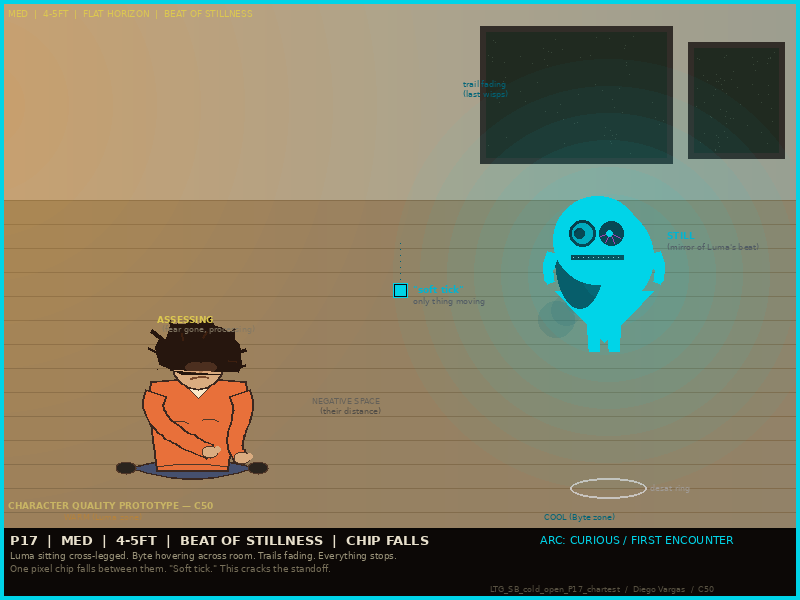
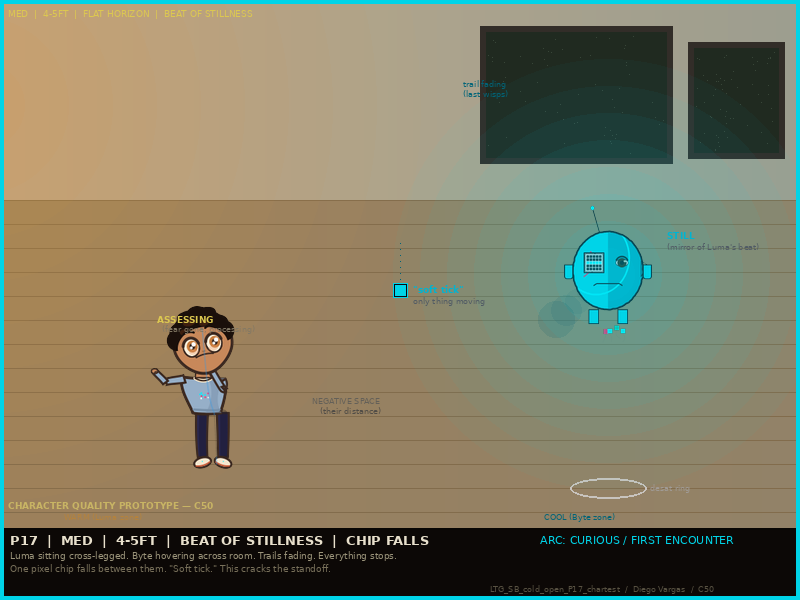
Replace inline character drawing in P21 with canonical char_*.py imports, fix P17 return value
P21: Removed ~100 lines of inline Byte (ellipse/polygon body, arms, head,
cracked eye, rim light) and Luma (polygon body, hair, face, eyes, brows,
mouth) drawing. Replaced with imports from LTG_TOOL_char_byte and
LTG_TOOL_char_luma canonical renderers using the standard _char_to_pil +
_composite_char pattern. Scene lighting tint applied via renderer kwargs.

P17_chartest: Fixed draw_byte_hovering() to return (face_cy, face_r,
body_cx, body_w) tuple for annotation placement — was returning None.

All 6 panels (P17_chartest, P18, P21, P22, P23, P24) tested and
regenerated successfully. No inline character drawing remains.

Changed region(s): [[0.125, 0.51, 0.3438, 0.81], [0.6562, 0.33, 0.8438, 0.6]]

diff --git a/output/tools/LTG_TOOL_sb_cold_open_P21.py b/output/tools/LTG_TOOL_sb_cold_open_P21.py
@@ -45,6 +45,8 @@ except ImportError:
 from PIL import Image, ImageDraw, ImageFont
 import math, random, os
 import sys
+from LTG_TOOL_char_luma import draw_luma as _draw_luma_canonical
+from LTG_TOOL_char_byte import draw_byte as _draw_byte_canonical
 from LTG_TOOL_char_glitch import draw_glitch
 from LTG_TOOL_cairo_primitives import to_pil_rgba
 sys.path.insert(0, os.path.dirname(os.path.abspath(__file__)))
@@ -264,53 +266,19 @@ def draw_panel():
     # ── BYTE — Camera Right, facing monitors, RIGID ──────────────────────────
     byte_cx   = int(canvas_w * 0.68)
     byte_cy   = int(canvas_h * 0.52)  # higher up = further from camera at high angle
-    byte_hr   = 18  # smaller — high angle makes them look small
-    byte_bw   = 22
-    byte_bh   = 42
+    byte_bh   = 42  # smaller — high angle makes them look small
 
-    # Body — stiff, arms pulled IN (defensive)
-    bt_top = byte_cy + byte_hr - 3
-    draw.ellipse([byte_cx - byte_bw // 2, bt_top,
-                  byte_cx + byte_bw // 2, bt_top + byte_bh // 2],
-                 fill=BYTE_TEAL)
-    draw.polygon([
-        (byte_cx - byte_bw // 2, bt_top + byte_bh // 3),
-        (byte_cx + byte_bw // 2, bt_top + byte_bh // 3),
-        (byte_cx, bt_top + byte_bh)
-    ], fill=BYTE_TEAL)
-
-    # Arms pulled in tight — defensive, NOT open
-    draw.line([(byte_cx - byte_bw // 2, bt_top + 12),
-               (byte_cx - byte_bw // 2 + 2, bt_top + 24)],
-              fill=BYTE_TEAL, width=4)
-    draw.line([(byte_cx + byte_bw // 2, bt_top + 12),
-               (byte_cx + byte_bw // 2 - 2, bt_top + 24)],
-              fill=BYTE_TEAL, width=4)
-
-    # Head — facing AWAY from Luma, toward monitors (back of head visible to us)
-    draw.ellipse([byte_cx - byte_hr, byte_cy - byte_hr,
-                  byte_cx + byte_hr, byte_cy + byte_hr],
-                 fill=BYTE_TEAL)
-    # Back of head shading (facing monitors = we see back)
-    draw.ellipse([byte_cx - byte_hr + 4, byte_cy - byte_hr + 4,
-                  byte_cx + byte_hr - 4, byte_cy + byte_hr - 4],
-                 fill=BYTE_BODY_DK)
-    # Cracked eye visible in profile (right side)
-    draw.rectangle([byte_cx + byte_hr - 6, byte_cy - 3,
-                    byte_cx + byte_hr - 1, byte_cy + 3],
-                   fill=(0, 160, 180))
-    draw.line([(byte_cx + byte_hr - 5, byte_cy - 2),
-               (byte_cx + byte_hr - 1, byte_cy + 2)],
-              fill=HOT_MAGENTA, width=1)
-
-    # Cyan rim light from monitors
-    rim_ol = Image.new('RGBA', img.size, (0, 0, 0, 0))
-    rd = ImageDraw.Draw(rim_ol)
-    rd.arc([byte_cx - byte_hr - 2, byte_cy - byte_hr - 2,
-            byte_cx + byte_hr + 2, byte_cy + byte_hr + 2],
-           start=200, end=340, fill=(*ELEC_CYAN, 80), width=2)
-    base = img.convert('RGBA')
-    img.paste(Image.alpha_composite(base, rim_ol).convert('RGB'))
+    # Canonical renderer: alarmed expression (rigid, defensive posture at re-escalation)
+    byte_scale = byte_bh / 88.0
+    byte_surface = _draw_byte_canonical(expression="alarmed", scale=byte_scale, facing="left",
+                                        scene_lighting={"tint": ELEC_CYAN, "intensity": 0.2})
+    byte_pil = _char_to_pil(byte_surface)
+    if byte_pil.height > 0:
+        aspect = byte_pil.width / byte_pil.height
+        new_h = byte_bh
+        new_w = int(new_h * aspect)
+        byte_pil = byte_pil.resize((new_w, new_h), Image.LANCZOS)
+    _composite_char(img, byte_pil, byte_cx, byte_cy)
     draw = ImageDraw.Draw(img)
 
     # Desaturation ring
@@ -326,75 +294,19 @@ def draw_panel():
     # ── LUMA — Camera Left, still on floor, rising ───────────────────────────
     luma_cx  = int(canvas_w * 0.30)
     luma_cy  = int(canvas_h * 0.56)
-    l_hr     = 22  # smaller at high angle
+    luma_body_h = 80  # smaller at high angle
 
-    # Body — getting up from floor, one knee down, one hand pushing up
-    body_top = luma_cy + l_hr - 4
-    # Hoodie mass (hunched, rising)
-    body_pts = [
-        (luma_cx - 28, body_top + 40),
-        (luma_cx - 22, body_top),
-        (luma_cx + 22, body_top - 4),
-        (luma_cx + 30, body_top + 36),
-    ]
-    draw.polygon(body_pts, fill=LUMA_HOODIE)
-    # Shadow side
-    draw.polygon([
-        body_pts[0], body_pts[1],
-        (luma_cx - 14, body_top),
-        (luma_cx - 20, body_top + 40),
-    ], fill=lerp_color(LUMA_HOODIE, (120, 60, 30), 0.3))
-
-    # One arm pushing up from floor
-    draw.line([(luma_cx + 24, body_top + 30),
-               (luma_cx + 38, body_top + 44)],
-              fill=LUMA_HOODIE, width=6)
-    # Hand on floor
-    draw.ellipse([luma_cx + 36, body_top + 42, luma_cx + 46, body_top + 50],
-                 fill=LUMA_SKIN)
-
-    # Other arm bracing on knee
-    draw.line([(luma_cx - 20, body_top + 14),
-               (luma_cx - 28, body_top + 28)],
-              fill=LUMA_HOODIE, width=6)
-
-    # Head — looking UP at monitors
-    draw.ellipse([luma_cx - l_hr, luma_cy - l_hr,
-                  luma_cx + l_hr, luma_cy + l_hr],
-                 fill=LUMA_SKIN)
-
-    # Hair
-    hair_pts = []
-    for i in range(14):
-        angle = math.pi + (math.pi * i / 13)
-        hr = l_hr + RNG.randint(2, 8)
-        hair_pts.append((int(luma_cx + hr * math.cos(angle)),
-                         int(luma_cy + hr * math.sin(angle) - 4)))
-    hair_pts.insert(0, (luma_cx + l_hr + 4, luma_cy))
-    hair_pts.append((luma_cx - l_hr - 4, luma_cy))
-    draw.polygon(hair_pts, fill=LUMA_HAIR)
-
-    # Face — looking UP. Eyes wide (ALARMED but processing).
-    # Upward gaze: eyes in lower half of head, irises shifted up
-    eye_y_l = luma_cy + 1
-    # Left eye
-    draw.ellipse([luma_cx + 2, eye_y_l - 4, luma_cx + 12, eye_y_l + 4],
-                 fill=(240, 236, 228))
-    draw.ellipse([luma_cx + 5, eye_y_l - 4, luma_cx + 9, eye_y_l - 1],
-                 fill=(55, 42, 32))  # iris shifted UP
-    # Right eye
-    draw.ellipse([luma_cx - 10, eye_y_l - 3, luma_cx, eye_y_l + 3],
-                 fill=(240, 236, 228))
-    draw.ellipse([luma_cx - 7, eye_y_l - 3, luma_cx - 4, eye_y_l],
-                 fill=(55, 42, 32))  # iris shifted UP
-    # Brows — raised (alarm)
-    draw.arc([luma_cx + 1, eye_y_l - 14, luma_cx + 13, eye_y_l - 4],
-             start=200, end=340, fill=LUMA_HAIR, width=2)
-    draw.arc([luma_cx - 11, eye_y_l - 12, luma_cx + 1, eye_y_l - 4],
-             start=200, end=340, fill=LUMA_HAIR, width=2)
-    # Mouth — open, small (processing alarm)
-    draw.ellipse([luma_cx - 2, luma_cy + 8, luma_cx + 5, luma_cy + 13],
-                 fill=(160, 100, 80))
+    # Canonical renderer: SURPRISED expression (alarmed, rising from floor)
+    luma_scale = luma_body_h / 400.0
+    luma_surface = _draw_luma_canonical(expression="SURPRISED", scale=luma_scale, facing="right",
+                                        scene_lighting={"tint": (0, 212, 232), "intensity": 0.15})
+    luma_pil = _char_to_pil(luma_surface)
+    if luma_pil.height > 0:
+        aspect = luma_pil.width / luma_pil.height
+        new_h = luma_body_h
+        new_w = int(new_h * aspect)
+        luma_pil = luma_pil.resize((new_w, new_h), Image.LANCZOS)
+    _composite_char(img, luma_pil, luma_cx, luma_cy)
 
     # Cyan light wash on Luma from monitors
     add_glow(img, luma_cx, luma_cy, 40, ELEC_CYAN, steps=4, max_alpha=10)

diff --git a/output/tools/LTG_TOOL_sb_cold_open_P17_chartest.py b/output/tools/LTG_TOOL_sb_cold_open_P17_chartest.py
@@ -242,7 +242,10 @@ def draw_luma_sitting(draw, img, luma_cx, luma_floor_y):
 
 
 def draw_byte_hovering(draw, img, byte_cx, byte_cy, body_h, body_w):
-    """Byte hovering — canonical renderer (neutral expression)."""
+    """Byte hovering — canonical renderer (neutral expression).
+
+    Returns (face_cy, face_r, body_cx, body_w) for annotation placement.
+    """
     scale = body_h / 88.0
     surface = draw_byte(expression="neutral", scale=scale, facing="front")
     char_pil = _char_to_pil(surface)
@@ -252,6 +255,10 @@ def draw_byte_hovering(draw, img, byte_cx, byte_cy, body_h, body_w):
         new_w = int(new_h * aspect)
         char_pil = char_pil.resize((new_w, new_h), Image.LANCZOS)
     _composite_char(img, char_pil, byte_cx, byte_cy)
+    # Return approximate geometry for annotation placement
+    face_cy = byte_cy - body_h // 4
+    face_r = int(body_h * 0.25)
+    return (face_cy, face_r, byte_cx, body_w)
 
 
 def draw_panel():
